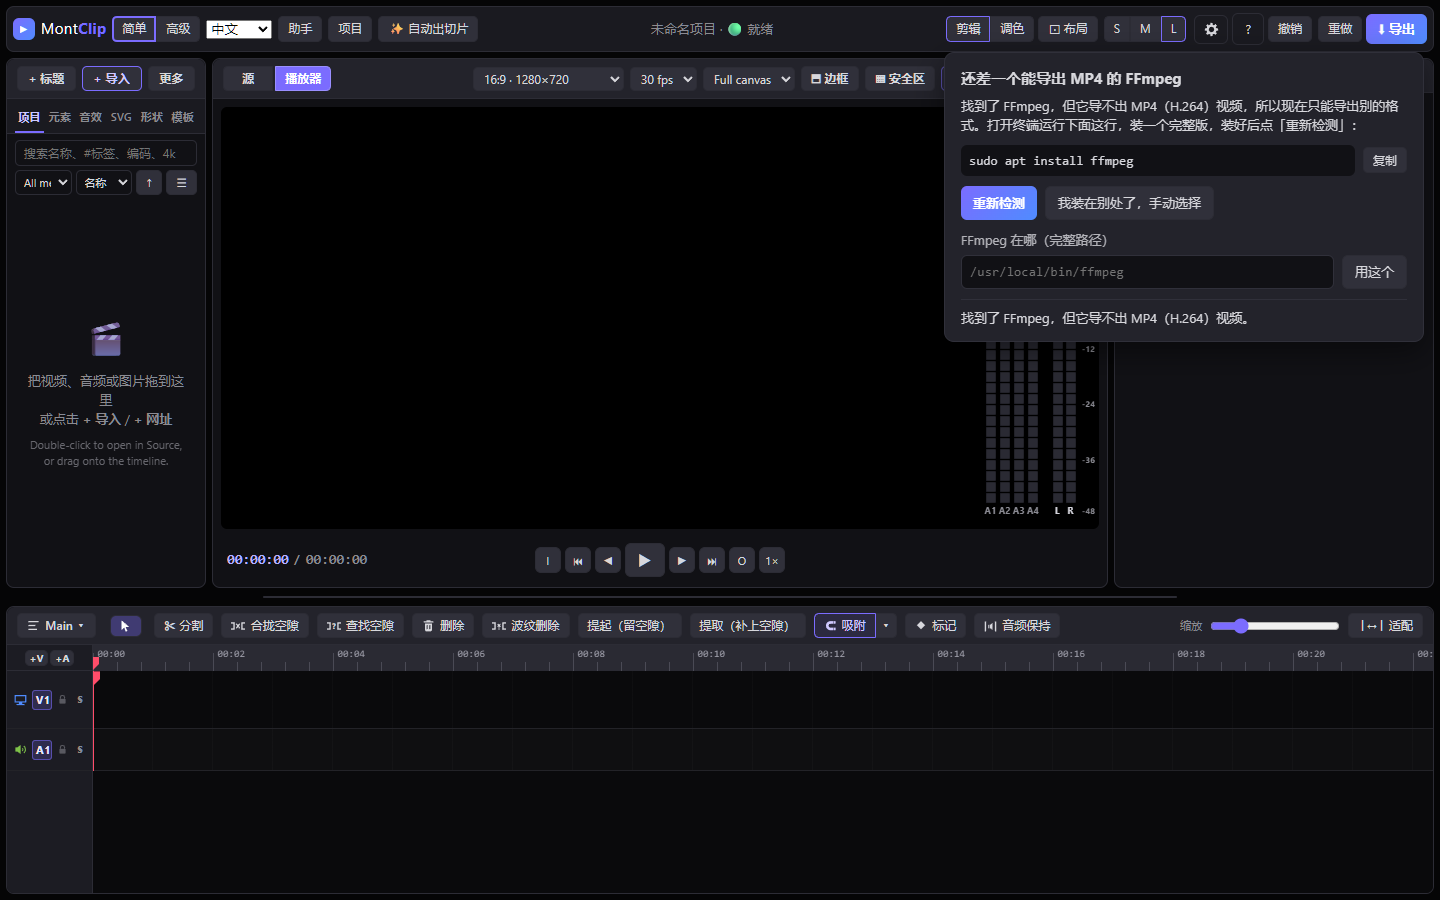
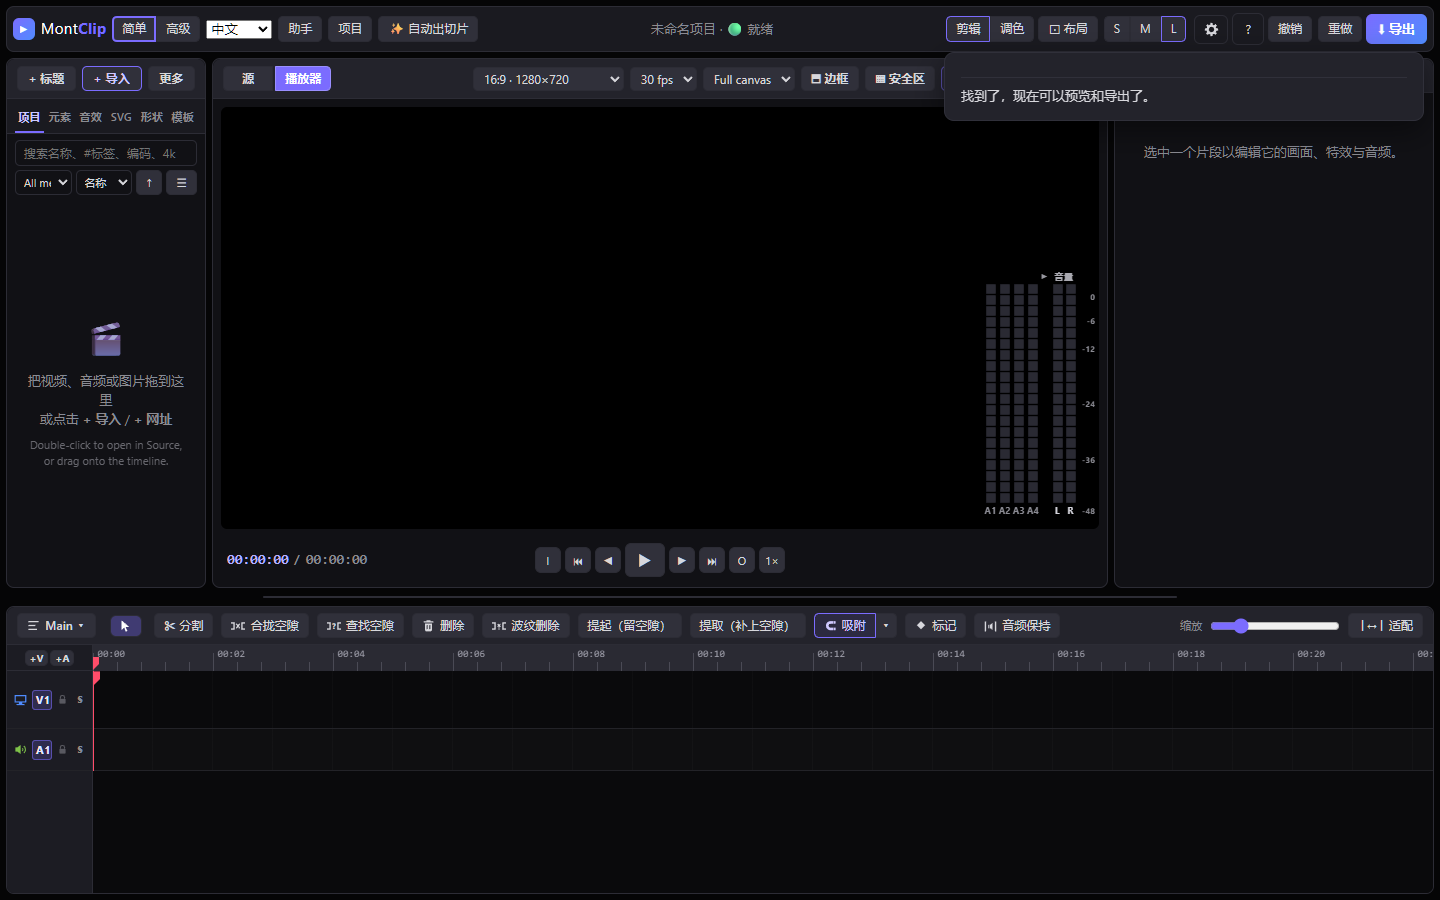
test(ffmpeg): JJ P1 acceptance screenshots (europa Linux, Windows); start log names where x264 came from
docs/validation/2026-11-04-ffmpeg-card/: the card with nothing installed, a wrong
file, ffmpeg without ffprobe, 「重新检测」 after installing (405 ms on europa), the
path box, a chosen path after a restart, and PATH / bundled with no card at all.

Assisted-by: Cindy (https://cindy.app)

Changed region(s): [[0.6562, 0.0622, 1.0, 0.4044], [0.9062, 0.28, 1.0, 0.3422]]

diff --git a/server.js b/server.js
@@ -1899,7 +1899,8 @@ async function logH264AtStart() {
   if (DESKTOP || !HAS_FFMPEG || externalFfmpeg.setup !== "server") return;
   try {
     const st = await h264Status(), ext = await externalFfmpeg.current();
-    if (st.encoder) console.log(`  H.264 export : ${st.encoder}${ext.ok ? " (MONTCLIP_EXTERNAL_FFMPEG)" : ""}`);
+    const from = { settings: "the chosen FFmpeg", env: "MONTCLIP_EXTERNAL_FFMPEG", path: "FFmpeg on PATH" }[ext.source];
+    if (st.encoder) console.log(`  H.264 export : ${st.encoder}${ext.ok && st.encoder === "libx264" && from ? ` (${from})` : ""}`);
     else console.log("  H.264 export : ⚠ none. Set MONTCLIP_EXTERNAL_FFMPEG to the full path of an FFmpeg with libx264 (e.g. /usr/bin/ffmpeg) and restart.");
     if (!ext.ok && ext.code === "extEnvUnusable") console.log(`                 ${X.maskUserPath(ext.reason)}`);
   } catch { }
